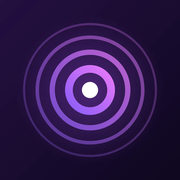
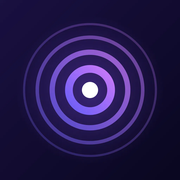
Resonance-paars en app-icoon iets blauwer
Claude-Session: https://claude.ai/code/session_01NjfAeigK7yfVBqeBmLWVM3

Changed region(s): [[0.2778, 0.2778, 0.7222, 0.7222], [0.3611, 0.3611, 0.6389, 0.6389]]

diff --git a/css/style.css b/css/style.css
@@ -404,7 +404,7 @@ body.home header{display:none}
 .homelogo{display:flex;flex-direction:column;align-items:center;text-align:center;gap:6px}
 .homelogo .hl1{font-size:12px;letter-spacing:.42em;text-transform:uppercase;color:var(--muted);padding-left:.42em}
 .homelogo .hl2{display:inline-block;white-space:nowrap;font-size:clamp(28px,8vw,48px);font-weight:300;letter-spacing:.2em;text-transform:uppercase;line-height:1.05;padding-left:.2em;
-  background:linear-gradient(90deg, var(--accent) 0%, color-mix(in srgb, var(--accent) 55%, #f0abfc) 50%, var(--accent) 100%);background-size:200% 100%;animation:logoflow 14s linear infinite;-webkit-background-clip:text;background-clip:text;color:transparent}
+  background:linear-gradient(90deg, var(--accent) 0%, color-mix(in srgb, var(--accent) 55%, #d8b4fe) 50%, var(--accent) 100%);background-size:200% 100%;animation:logoflow 14s linear infinite;-webkit-background-clip:text;background-clip:text;color:transparent}
 .navlist{display:flex;flex-direction:column;gap:10px}
 .navrow{display:flex;align-items:center;gap:14px;padding:11px 18px;border-radius:999px;background:var(--paper);border:1px solid var(--line);color:var(--ink);text-decoration:none;
   transition:transform .15s, border-color .15s, box-shadow .15s}

diff --git a/js/thema.js b/js/thema.js
@@ -22,7 +22,7 @@ const Thema = (function(){
   try { if (!localStorage.getItem('thema-v2')){ localStorage.setItem(KEY, 'donker'); localStorage.setItem(AKEY, 'resonance'); localStorage.setItem(TKEY, '60'); localStorage.setItem('thema-v2', '1'); } } catch(e){}
   // [id, naam, licht, donker]
   const ACCENTS = [
-    ['resonance','Resonance','#8b3fd9','#b57bf7'], ['oranje','Oranje','#c2410c','#f0712c'], ['rood','Rood','#be123c','#fb7185'], ['roze','Roze','#db2777','#f472b6'],
+    ['resonance','Resonance','#7442e0','#a387fb'], ['oranje','Oranje','#c2410c','#f0712c'], ['rood','Rood','#be123c','#fb7185'], ['roze','Roze','#db2777','#f472b6'],
     ['paars','Paars','#7c3aed','#a78bfa'], ['indigo','Indigo','#4f46e5','#818cf8'], ['blauw','Blauw','#2563eb','#60a5fa'],
     ['petrol','Petrol','#0f766e','#2dd4bf'], ['groen','Groen','#15803d','#4ade80'], ['goud','Goud','#a16207','#facc15']
   ];

diff --git a/css/donker.css b/css/donker.css
@@ -4,7 +4,7 @@
 html.dark{
   color-scheme:dark;
   --bg:#0c0b10; --paper:#16141c; --ink:#ece8f2; --muted:#a39cb0; --line:#2c2836;
-  --accent:#b57bf7; --accent-soft:#2e2140; --beat:#433d4f; --low:#60a5fa;
+  --accent:#a387fb; --accent-soft:#262143; --beat:#433d4f; --low:#60a5fa;
   --edge:#4a4458; --soft:#1e1b26; --soft2:#25212f;
 }
 html.dark header{background:var(--header-bg)}

diff --git a/sw.js b/sw.js
@@ -1,6 +1,6 @@
 // Resonance service worker: app werkt offline na het eerste bezoek.
 // Verhoog VERSION bij elke nieuwe versie, dan halen telefoons de update op.
-const VERSION = 'resonance-v2';
+const VERSION = 'resonance-v3';
 const CORE = [
  "./",
  "index.html",
